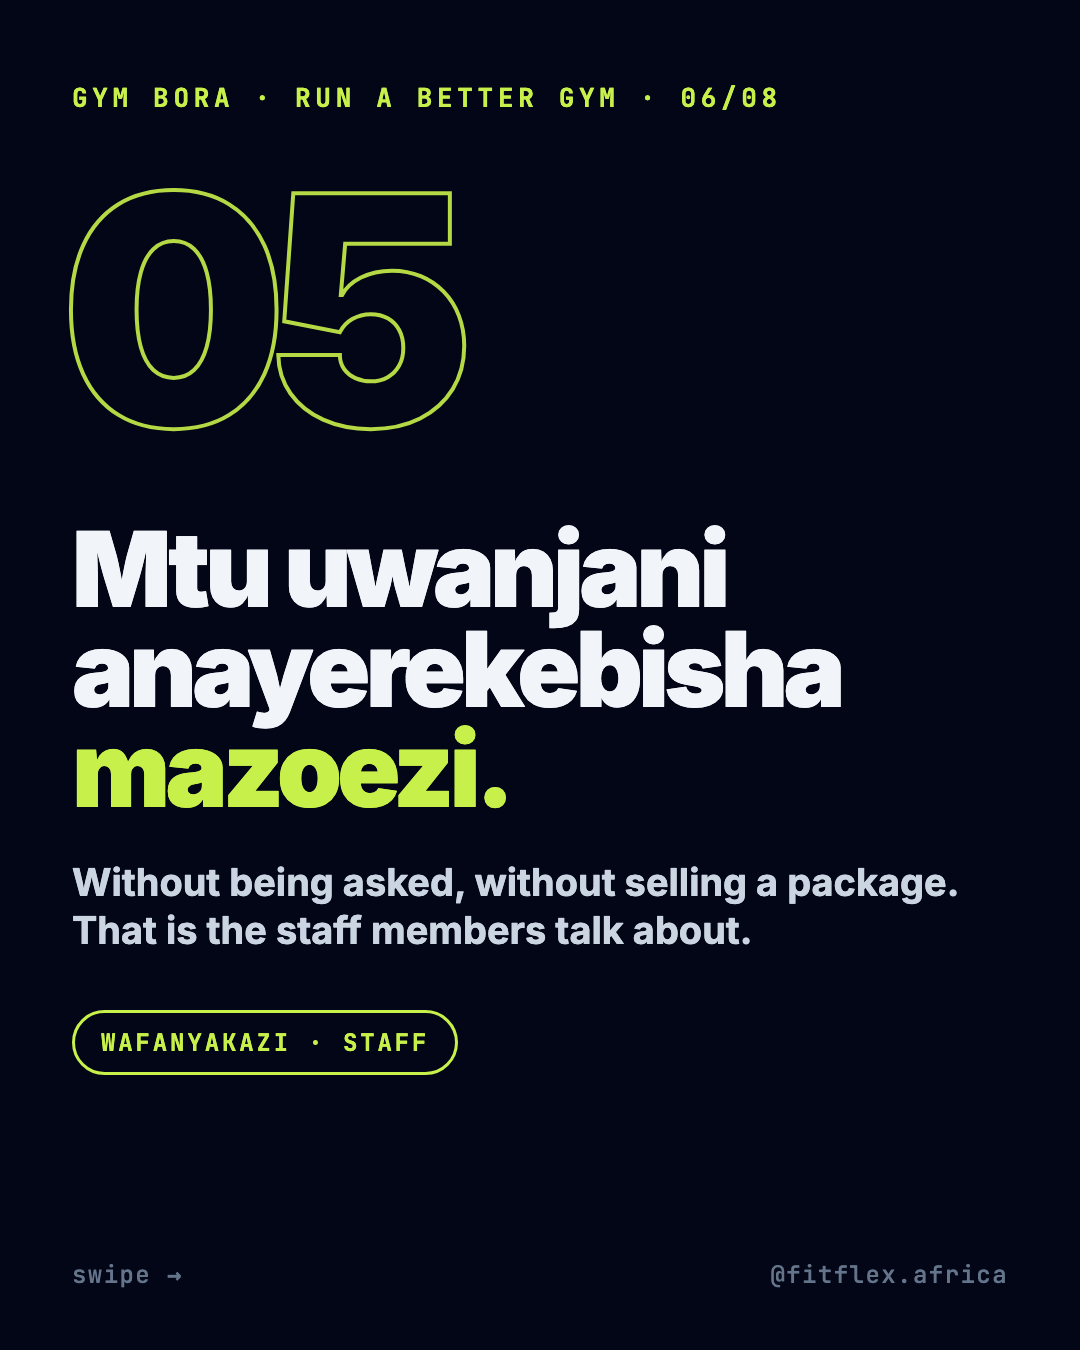
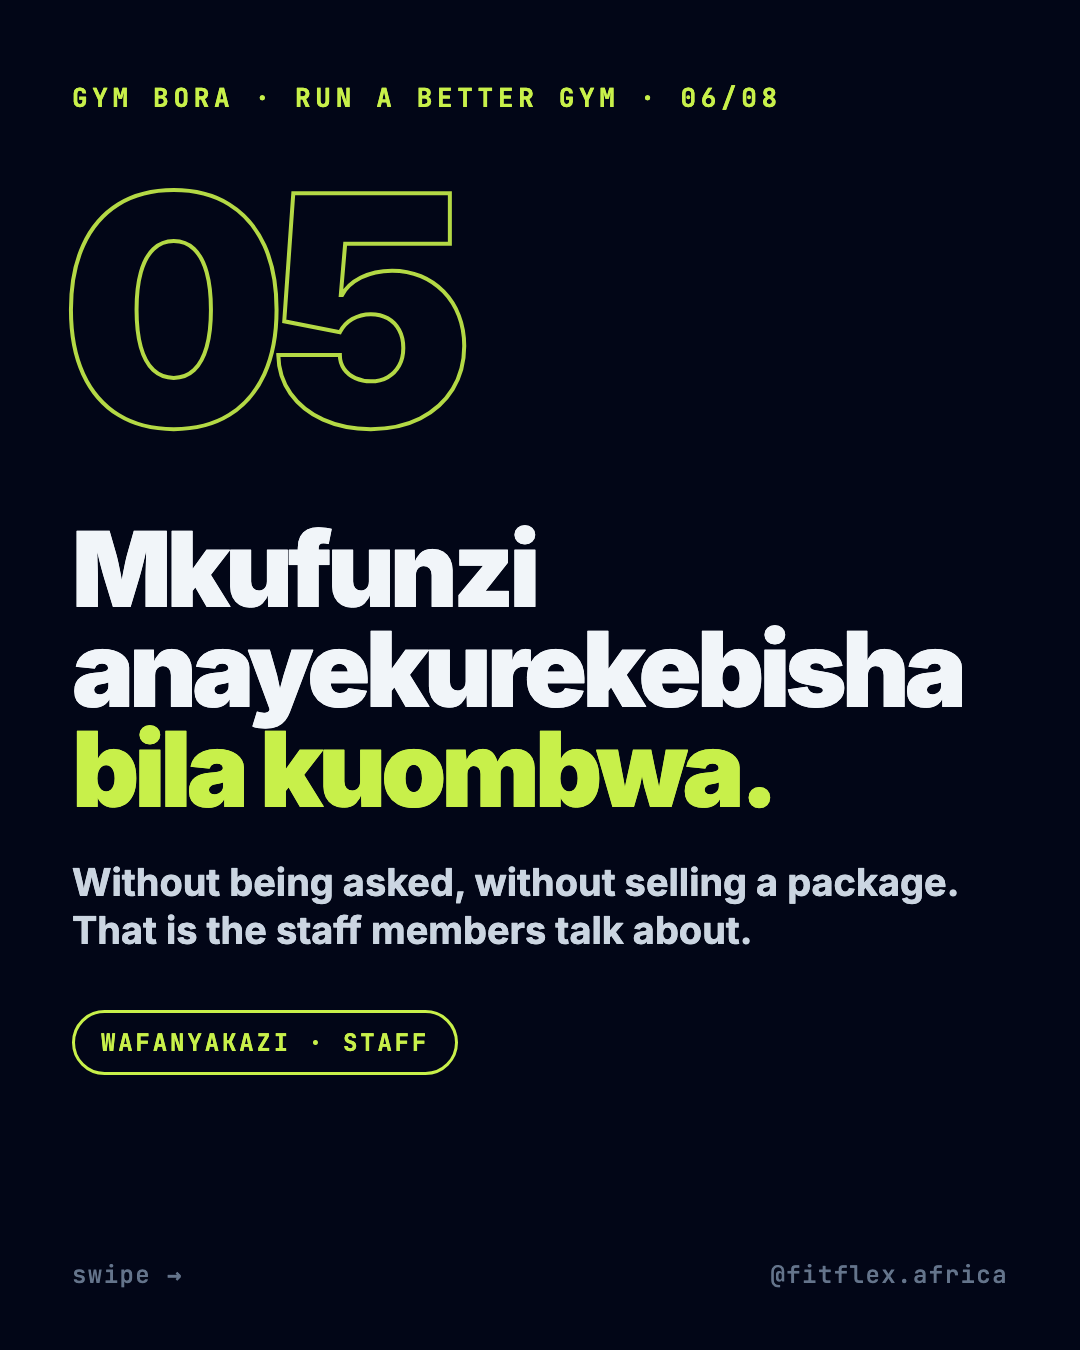
ops(social): v3 five-rules brand_checked; F06 reworded; v3 rule row; brand block note

Changed region(s): [[0.0917, 0.3733, 0.9167, 0.6222], [0.0611, 0.5289, 0.0917, 0.56]]

diff --git a/social/content/2026-10-W5-B-owners/source/F06.html b/social/content/2026-10-W5-B-owners/source/F06.html
@@ -13,4 +13,4 @@
  .row{display:flex;align-items:center;gap:26px;padding:26px 0;border-bottom:2px solid #1E293B}.row .mark{width:64px;height:64px;border-radius:50%;display:flex;align-items:center;justify-content:center;font-weight:900;font-size:40px}.row .t{font-weight:900;font-size:64px;letter-spacing:-2px}.row .t small{display:block;font-weight:700;font-size:28px;letter-spacing:0;color:#94A3B8}
  .card{position:absolute;left:72px;right:72px;top:300px;background:#0F172A;border:2px solid #1E293B;border-radius:36px;padding:64px}
  .bar{position:absolute;left:72px;top:150px;width:120px;height:12px;border-radius:6px;background:#C8F04A}
- </style></head><body><div class="eyebrow">Gym bora · run a better gym · 06/08</div><div class="numeral">05</div><div style="position:absolute;left:72px;right:72px;top:520px"><h1 style="font-size:104px">Mtu uwanjani anayerekebisha <em>mazoezi.</em></h1><div class="en" style="margin-top:40px;max-width:900px">Without being asked, without selling a package. That is the staff members talk about.</div><div style="margin-top:56px"><span class="chip">Wafanyakazi · staff</span></div></div><div class="swipe">swipe →</div><div class="handle">@fitflex.africa</div></body></html>
+ </style></head><body><div class="eyebrow">Gym bora · run a better gym · 06/08</div><div class="numeral">05</div><div style="position:absolute;left:72px;right:72px;top:520px"><h1 style="font-size:104px">Mkufunzi anayekurekebisha <em>bila kuombwa.</em></h1><div class="en" style="margin-top:40px;max-width:900px">Without being asked, without selling a package. That is the staff members talk about.</div><div style="margin-top:56px"><span class="chip">Wafanyakazi · staff</span></div></div><div class="swipe">swipe →</div><div class="handle">@fitflex.africa</div></body></html>

diff --git a/social/content/2026-10-W5-B-owners/brief.md b/social/content/2026-10-W5-B-owners/brief.md
@@ -1,6 +1,6 @@
 # 2026-10-W5-B-owners — "Dar members don't come back for the machines."
 
-State: **drafted** again (re-built in template v3 with Swahili on the slides; brand re-review pending). Record: `social/data/ideas.jsonl`.
+State: **brand_checked** (v3 bilingual build passed brand review 2026-10-20; owner approval pending). Record: `social/data/ideas.jsonl`.
 
 | Field | Value |
 |---|---|
@@ -10,8 +10,8 @@ State: **drafted** again (re-built in template v3 with Swahili on the slides; br
 | Objective | Owners comment PARTNER; FitFlex seen as the operator who scores the whole experience |
 | Hook | Dar members don't come back for the machines. |
 | Concept | Text-only, five rules adapted to Dar: the greeting, power cuts, the changing room, paying by mobile money, floor staff who correct form; then the FitFlex scoring tie-in; then PARTNER |
-| Format | Carousel, 8 slides, 1080×1350, template v2, text-only (owner request 2026-10-20) |
-| Language lead | English (ISO week 44 is even); Swahili second |
+| Format | Carousel, 8 slides, 1080×1350, template v3 (bilingual, Swahili lead on slides; owner request 2026-10-20) |
+| Language lead | Slides: Swahili lead, English under. Caption: English lead (ISO week 44 is even), Swahili second |
 | Inspiration | ins_2026-10-20_fe6d2d (stewartmiller: numbered-rules text cards; format only, wording original). Note the comments on that post: lifters answered that equipment is all that matters; rule 7 answers that by naming equipment first in what FitFlex scores |
 | Facts cited | Rubric weights equipment, amenities, facility, staffing: glossary [FACT] (named, no percentages shown); M-Pesa/Airtel Money and on-site scoring before joining: Business Overview [FACT]; rules 1–5 are operator advice in Tanzanian context [ASSUMPTION]; no statistics, prices, caps or payouts |
 | Planned slot | Thursday 29 October 2026, 17:00 Dar es Salaam |
@@ -31,7 +31,7 @@ Template v3 (2026-10-20, owner asked for more engaging design and Swahili on the
 | 3 | rule | SW: Jiandae na umeme kukatika. — EN: A fan that works, water that runs, light when TANESCO lets you down. Members remember the gym that was ready. Chip: Umeme · power | none |
 | 4 | rule | SW: Chumba cha kubadilishia ndiyo review. — EN: A clean floor, a hook for the bag, a mirror that isn't cracked. That is what they describe to a friend. Chip: Usafi · cleanliness | none |
 | 5 | rule | SW: Waache walipe jinsi Dar inavyolipa. — EN: M-Pesa or Airtel Money at the desk, receipt on the phone. Not "come back tomorrow with cash". Chip: Malipo · payment | none |
-| 6 | rule | SW: Mtu uwanjani anayerekebisha mazoezi. — EN: Without being asked, without selling a package. That is the staff members talk about. Chip: Wafanyakazi · staff | none |
+| 6 | rule | SW: Mkufunzi anayekurekebisha bila kuombwa. — EN: Without being asked, without selling a package. That is the staff members talk about. Chip: Wafanyakazi · staff | none |
 | 7 | check | SW: FitFlex inakagua kila gym kabla haijajiunga. — EN: FitFlex scores every gym on all of this before it joins. Not just the weights. Rows: Vifaa, Huduma, Jengo, Wafanyakazi | none |
 | 8 | cta | SW: Una gym Dar es Salaam? Andika — EN: Own a gym in Dar es Salaam? Comment PARTNER. Tutakutumia DM jinsi FitFlex inavyofanya kazi. | none |
 
@@ -39,7 +39,7 @@ Source: `source/slides.json`; render with `node social/tools/render-carousel.js 
 
 ## Accessibility
 
-Headlines 92–128 px Inter 900 on `#020617`; subs 36 px; contrast above 4.5:1 by token design. Alt text per slide in `publish.json`.
+Headlines 80–132 px Inter 900 (cover 132 on Volt with on-volt text, rules 104, checklist 92, CTA lead-in 80 under the 210 px keyword); English subs 38 px; contrast above 4.5:1 by token design. Alt text per slide in `publish.json`.
 
 ## Caption
 
@@ -72,7 +72,8 @@ Comment **PARTNER** → the owner replies by DM himself (decided 2026-10-20). On
 
 ## Checks before approval
 
-- [ ] Brand review of the v3 bilingual build (the v2 text-only build passed 2026-10-20)
+- [x] Brand review of the v3 bilingual build: pass 2026-10-20 (15 of 15); F06 reworded after the reviewer's note on 'uwanjani'
 - [ ] Swahili on the slides is a Claude draft: the owner should read every Swahili line before approving, since it is now the lead text, not a caption
+- [ ] Owner confirms the Volt-ground cover (canon still says social slides are dark-ground only; the cover is a proposal, not yet a ruling)
 - [ ] Owner comfortable with the TANESCO mention and with "Not “come back tomorrow with cash”" as tone
 - [ ] Confirm the vetting rubric still weighs amenities, facility and staffing (glossary) before claiming "scores every gym on all of this"

diff --git a/.claude/agents/social-brand-reviewer.md b/.claude/agents/social-brand-reviewer.md
@@ -18,7 +18,7 @@ You review one content record under `social/content/<id>/`. Input: the record id
 | Rule | Pass when |
 |---|---|
 | Palette | Every colour in `slides.json` themes resolves to `brand-tokens.json`; primary green is `#1F7A3A`; no brand colour on white |
-| Light and dark | Template v1: at least two slides on a light ground and two on a dark ground. Template v2 (`style: v2`, owner choice 2026-10-19): dark-only is accepted; check instead that photo slides carry a scrim and type slides vary in size and layout |
+| Light and dark | Template v1: at least two slides on a light ground and two on a dark ground. Template v2 (`style: v2`, owner choice 2026-10-19): dark-only is accepted; check instead that photo slides carry a scrim and type slides vary in size and layout. Template v3 (`style: v3`): dark slides as v2, plus a Volt-ground cover is allowed only with on-volt `#020617` text and nothing Volt-coloured on it (proposal of 2026-10-20; confirm the owner has ruled before passing a record that uses it) |
 | Logo | FitFlex logo appears, not stretched, not on a busy photo without a scrim; wordmark "Af" gold if the wordmark is used |
 | Type | Inter for headlines and body; hierarchy readable at phone size (headline ≥ 84 px on a 1080-wide slide) |
 | Voice | Confident, concrete, local; addresses "you"; brand called "FitFlex"; no "cheapest" or savings claim |

diff --git a/social/brand/brand-block.md b/social/brand/brand-block.md
@@ -8,7 +8,7 @@ Source of truth: `canon/04-marketing/design-system.md` (founder's workspace). To
 
 ## Do
 
-- Social slides (template v2, owner 2026-10-20): deep slate `#020617` ground, Inter 900 headline with one word in Volt `#C8F04A`, JetBrains Mono eyebrow, Fuel `#FF8A6B` only for an "act now" row, photos under a dark scrim. Volt never on a light ground; green `#1F7A3A` for any light piece.
+- Social slides (template v2, owner 2026-10-20): deep slate `#020617` ground, Inter 900 headline with one word in Volt `#C8F04A`, JetBrains Mono eyebrow, Fuel `#FF8A6B` only for an "act now" row, photos under a dark scrim. Volt never as text on a light ground; a Volt-ground cover slide with on-volt `#020617` text is a v3 proposal awaiting the owner's ruling; green `#1F7A3A` for any light piece. Template v3 puts Swahili as the lead text on slides with English under it.
 
 - Build on navy or cream; put green, amber and gold on those grounds.
 - Use the role colour when a post targets one audience: member green `#1F7A3A`, owner amber `#FF9800`, trainer blue `#3B82F6`, vendor purple `#A855F7`, corporate indigo `#6366F1`.

diff --git a/social/content/2026-10-W5-B-owners/licences.md b/social/content/2026-10-W5-B-owners/licences.md
@@ -1,6 +1,6 @@
 # Licences and provenance — 2026-10-W5-B-owners
 
-Template v2, text-only, rendered 2026-10-20 with `social/tools/render-carousel.js` from `source/slides.json`. No photos, no AI-generated imagery.
+Template v3, bilingual text-only, rendered 2026-10-20 with `social/tools/render-carousel.js` from `source/slides.json`. No photos, no AI-generated imagery.
 
 | Asset | Source | Licence | Note |
 |---|---|---|---|
